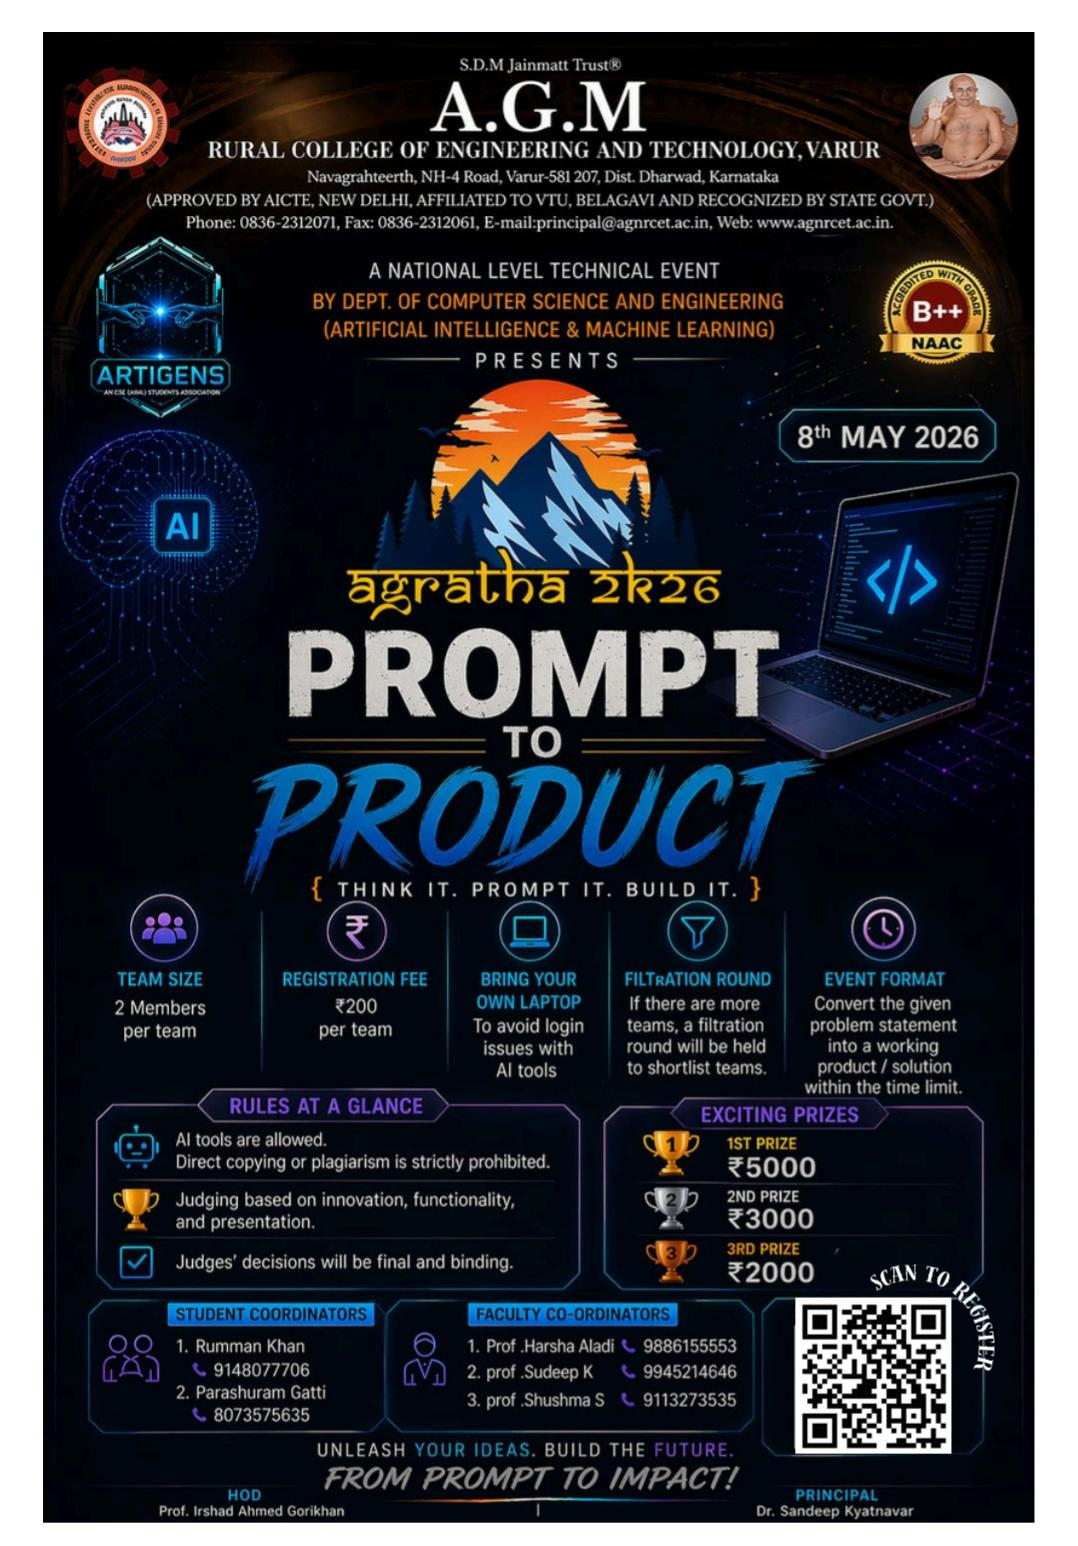
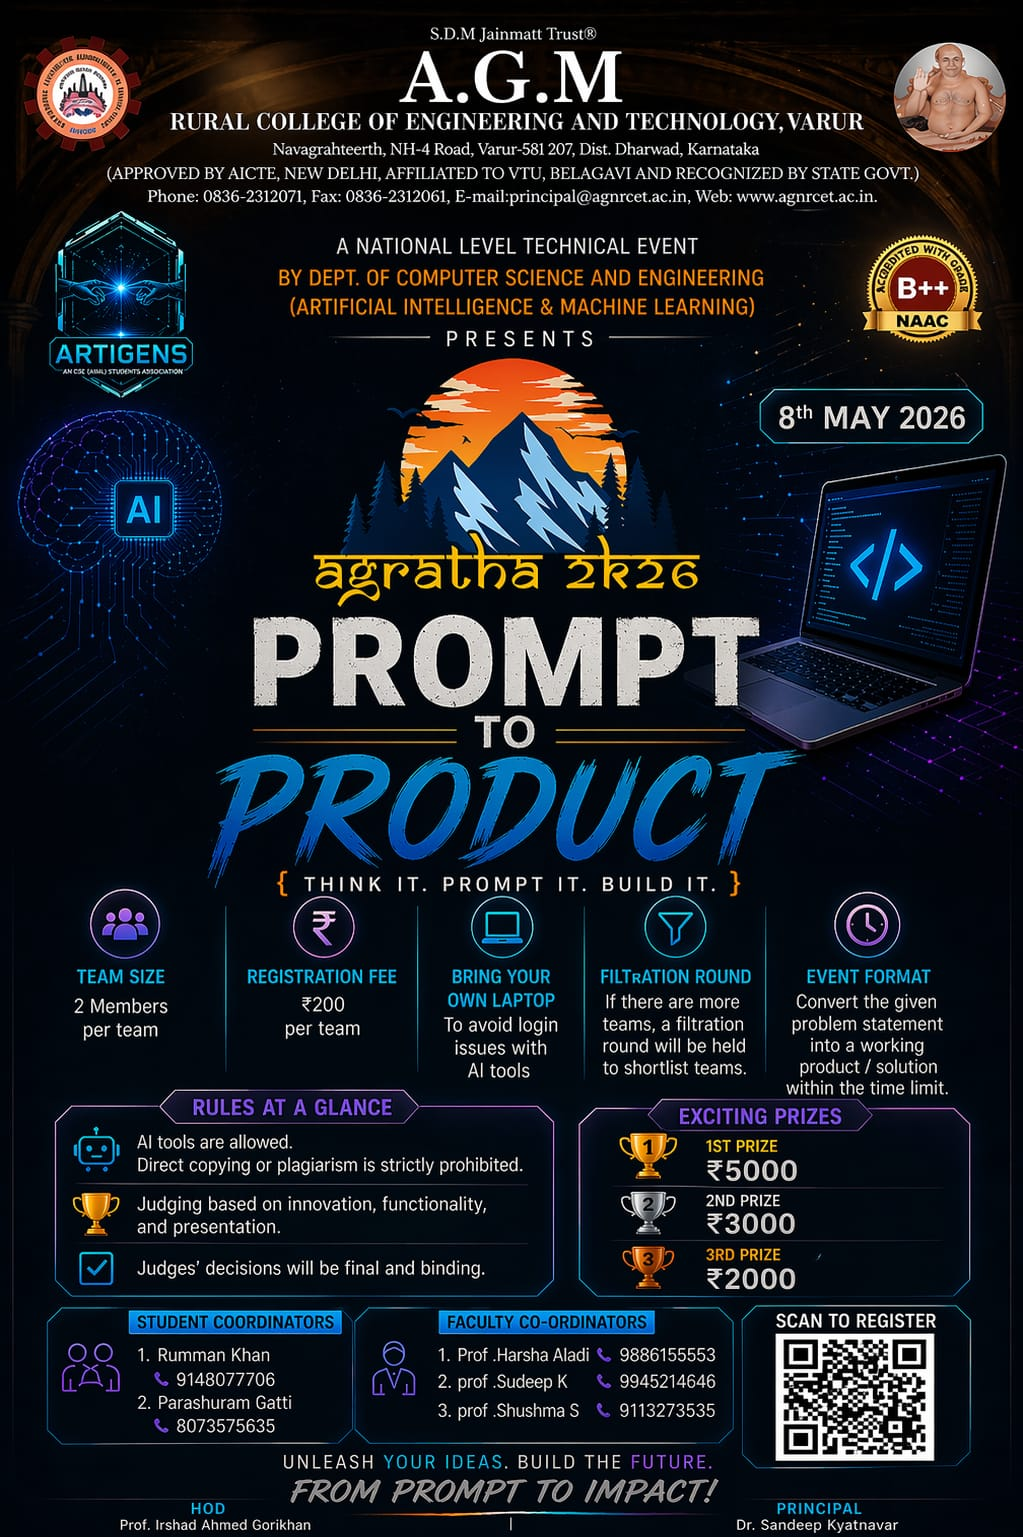
info updated

diff --git a/src/data/events.ts b/src/data/events.ts
@@ -57,11 +57,28 @@ export const events: AgrathaEvent[] = [
     category: "technical",
     date: "8/5/2026",
     image: "/ptop.jpeg",
+    entryFee: "₹200 per team",
     registrationUrl: "https://forms.gle/QyaXx2vs9mYjegR59",
-    description: "Turn an AI prompt into a working product. Show off your prompt engineering & build skills.",
-    coordinators: [{ name: "Mrs. Kavita M (CSD)", phone: "9164592547" }],
+    description: "THINK IT. PROMPT IT. BUILD IT. Convert a given problem statement into a working product or solution within the time limit using AI tools. Team size: 2 members.",
+    coordinators: [
+      { name: "Rumman Khan", phone: "9148077706" },
+      { name: "Parashuram Gatti", phone: "8073575635" },
+      { name: "Prof. Harsha Aladi", phone: "9886155553" },
+      { name: "Prof. Sudeep K", phone: "9945214646" },
+      { name: "Prof. Shushma S", phone: "9113273535" },
+    ],
     xp: 700,
     difficulty: "Elite",
+    rules: [
+      "Team Size: 2 Members per team.",
+      "Bring Your Own Laptop (to avoid login issues with AI tools).",
+      "Filtration Round: If there are more teams, a filtration round will be held to shortlist teams.",
+      "AI tools are allowed.",
+      "Direct copying or plagiarism is strictly prohibited.",
+      "Judging based on innovation, functionality, and presentation.",
+      "Judges' decisions will be final and binding."
+    ],
+    prizes: ["1st Prize: ₹5000", "2nd Prize: ₹3000", "3rd Prize: ₹2000"],
   },
   {
     id: "logic-to-layers",
